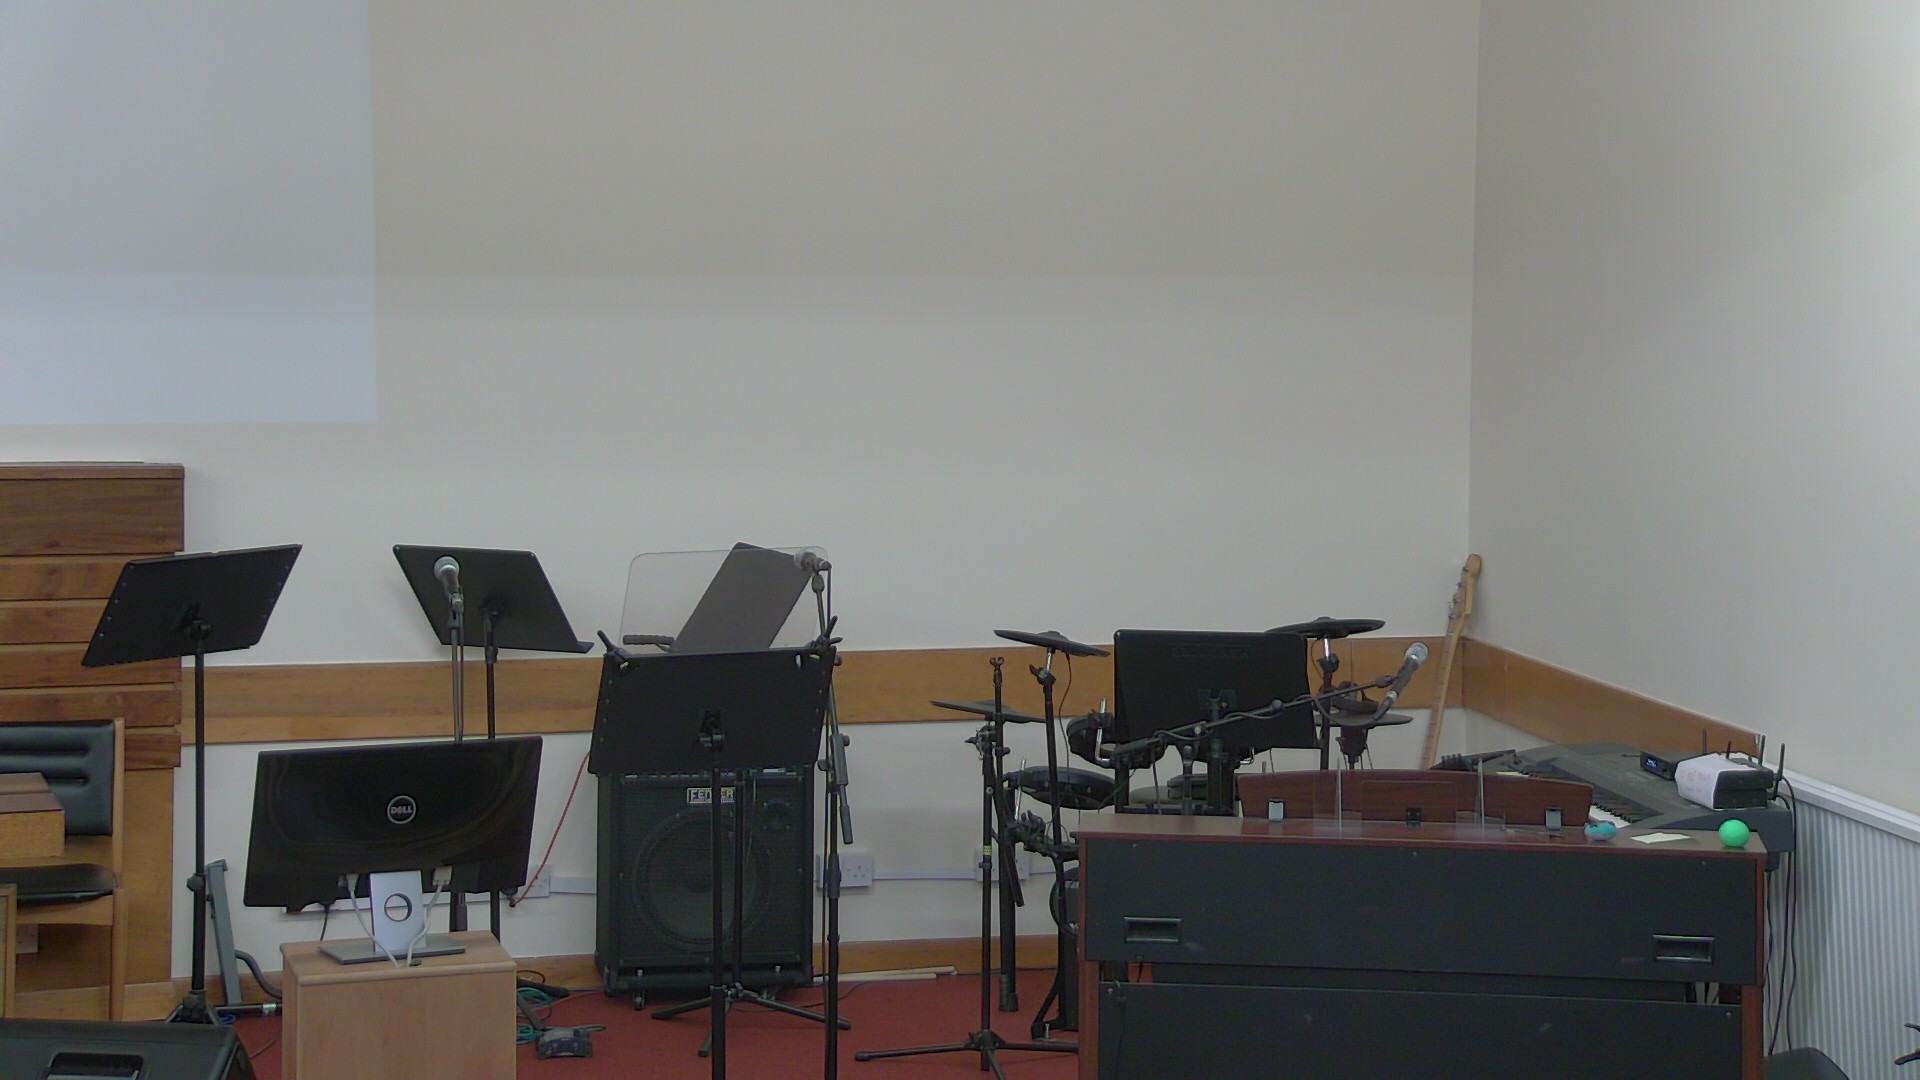
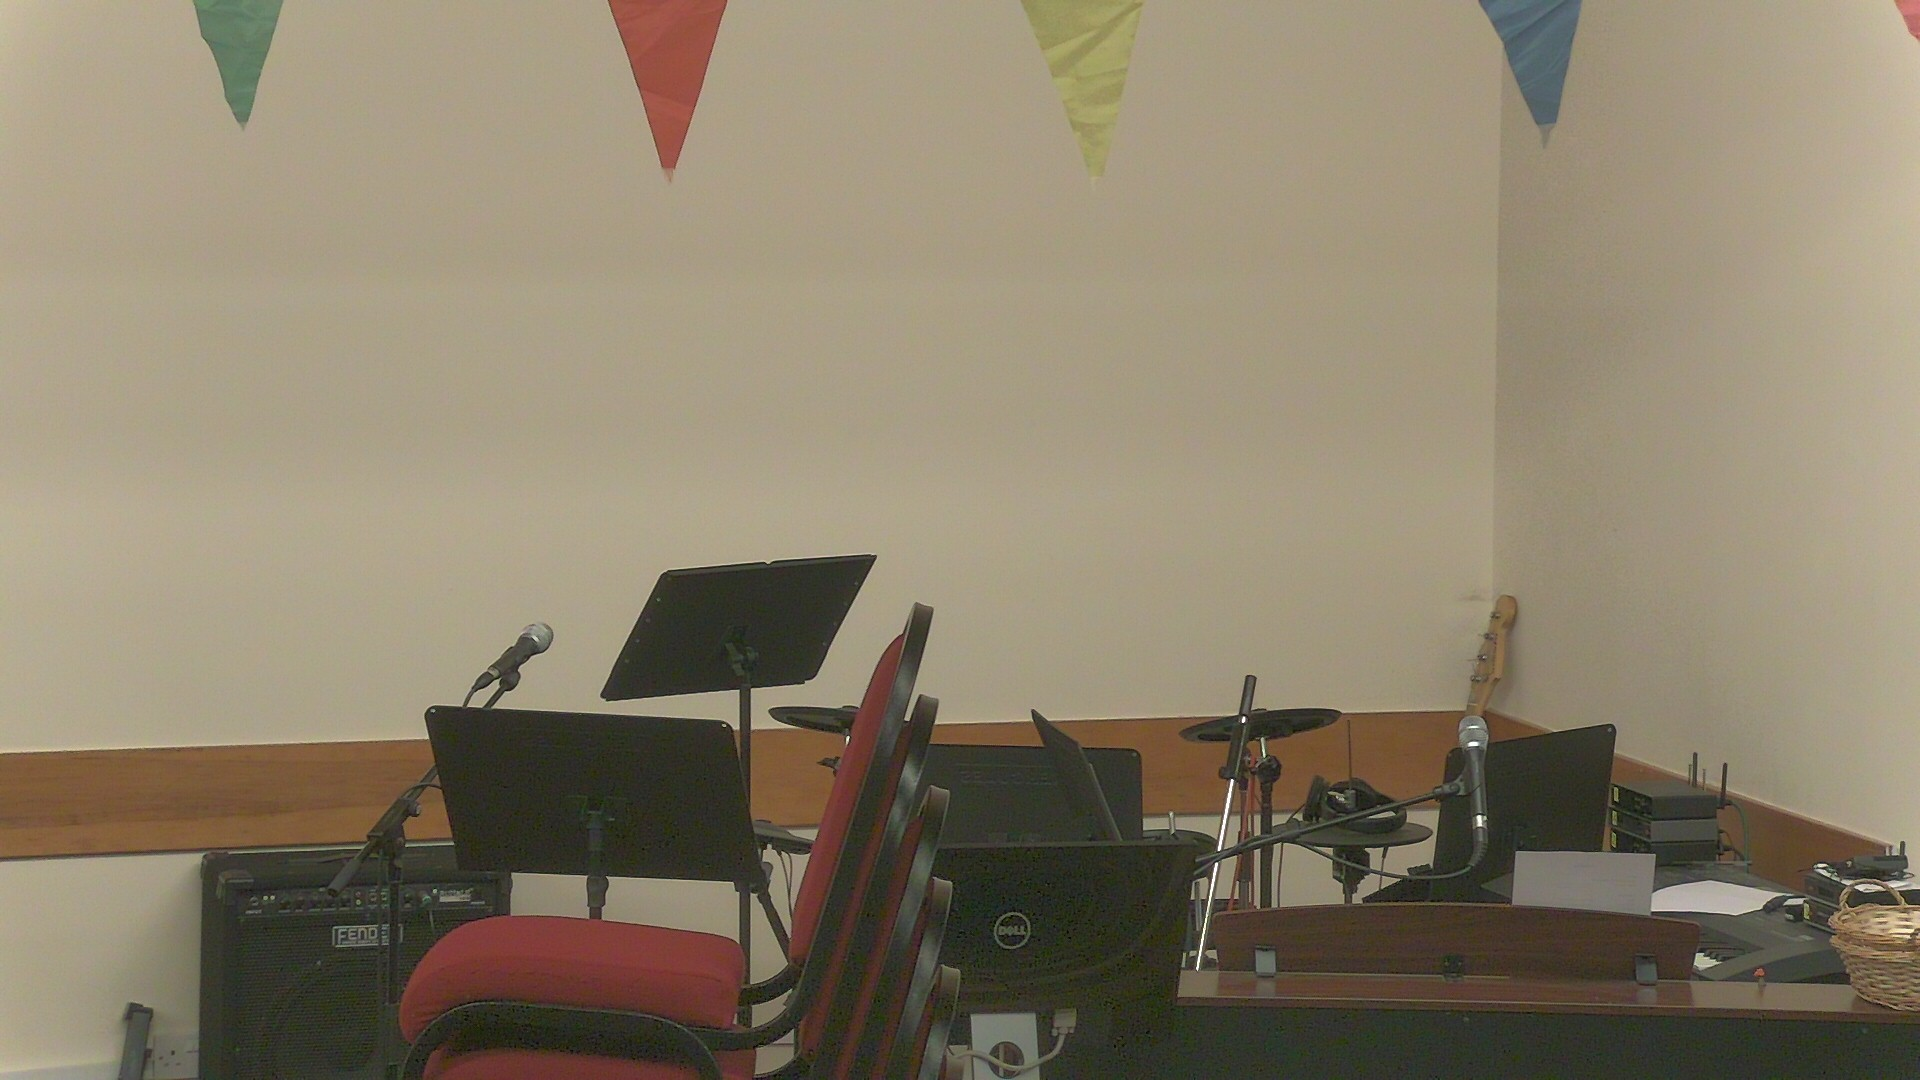
Fixed preset preview image function

diff --git a/resources/js/index.js b/resources/js/index.js
@@ -764,41 +764,24 @@ function stop_autopan() {
 	$('.autopan').removeClass('active');
 }
 
-// URL of the file you want to download
-const url = 'http://192.168.0.190/snapshot.jpg';
-
-// Function to download a file
-async function downloadFile(url, filename) {
-  try {
-    // Fetch the file
-    const response = await fetch(url);
-    
-    // Check if the request was successful
-    if (response.status == 200) {
-      throw new Error(`Unable to download file. HTTP status: ${response.status}`);
+function forceDownload(url, fileName){
+    var xhr = new XMLHttpRequest();
+    xhr.open("GET", url, true);
+    xhr.responseType = "blob";
+    xhr.onload = function(){
+        var urlCreator = window.URL || window.webkitURL;
+        var imageUrl = urlCreator.createObjectURL(this.response);
+        var tag = document.createElement('a');
+        tag.href = imageUrl;
+        tag.download = fileName;
+        document.body.appendChild(tag);
+        tag.click();
+        document.body.removeChild(tag);
     }
-
-    // Get the Blob data
-    const blob = await response.blob();
-
-    // Create a download link
-    const downloadLink = document.createElement('a');
-    downloadLink.href = URL.createObjectURL(blob);
-    downloadLink.download = filename;
-
-    // Trigger the download
-    document.body.appendChild(downloadLink);
-    downloadLink.click();
-
-    // Clean up
-    setTimeout(() => {
-      URL.revokeObjectURL(downloadLink.href);
-      document.body.removeChild(downloadLink);
-    }, 100);
-  } catch (error) {
-    console.error('Error downloading the file:', error.message);
-  }
+    xhr.send();
 }
+
+
 
 requirejs(['jquery', 'mousetrap', 'jscookie'], function ($, Mousetrap, Cookies) {
 
@@ -817,7 +800,7 @@ requirejs(['jquery', 'mousetrap', 'jscookie'], function ($, Mousetrap, Cookies) 
 	window.cam_zoom = cam_zoom;
 	window.cam_focus = cam_focus;
 	window.cam_preset = cam_preset;
-	window.downloadFile = downloadFile;
+	window.forceDownload = forceDownload;
 
 	config_init();
 	keybinds();
@@ -899,8 +882,7 @@ requirejs(['jquery', 'mousetrap', 'jscookie'], function ($, Mousetrap, Cookies) 
 	
 	$('.btn').on('mouseover', function(e) {
 		let i = $(this).html();
-		$('#camTitle').html(`Preset Preview: ${Cookies.get(`${i}`)}`);
-		$('#presetTitle1').html(`${Cookies.get(`${i}`)}`);
+		$('#presetPreview').attr('src',`./resources/images/${i}.jpg`)
 	});
 	
 	$('#infoLink').click(function(e) {
@@ -918,6 +900,7 @@ requirejs(['jquery', 'mousetrap', 'jscookie'], function ($, Mousetrap, Cookies) 
 			console.log('Set autopan start position');
 		};
 		let presetName = prompt('Enter a name for the preset:');
+		forceDownload('http://192.168.0.190/snapshot.jpg', `${pstNum}.jpg`)
 		document.cookie = `${pstNum} = ${presetName}; expires=Fri, 01 Jan 2100 00:00:00 UTC;`;
 	});
 	

diff --git a/index.html b/index.html
@@ -63,12 +63,7 @@
         <!--Preview section-->
         <section id='prevContainer'>
             <div id='preview'>
-                <OBJECT classid="clsid:9BE31822-FDAD-461B-AD51-BE1D1C159921" codebase="https://downloads.videolan.org/pub/videolan/contrib/win32/axvlc.cab" width="640" height="480" id="vlc" events="True">
-                    <param name="Src" value="rtsp://192.168.0.190" />
-                    <param name="ShowDisplay" value="True" />
-                    <param name="AutoLoop" value="False" />
-                    <param name="AutoPlay" value="False" />
-                </OBJECT>
+                <img id="presetPreview">
             </div>
         </section>
 

diff --git a/resources/css/style.css b/resources/css/style.css
@@ -385,6 +385,11 @@ p {
   letter-spacing: 0.2;
 }
 
+#presetPreview {
+  width: 90%;
+  height: auto;
+}
+
 /* -------Controls section------- */
 
 #ctrlContainer {
@@ -695,12 +700,13 @@ p {
 }
 
 #presetTitle {
+  display: none;
   font-size: 40px;
   font-weight: bold;
 }
 
 #presetTitle1 {
-  display: none;
+  display: block;
   font-size: 40px;
   font-weight: bold;
 }
